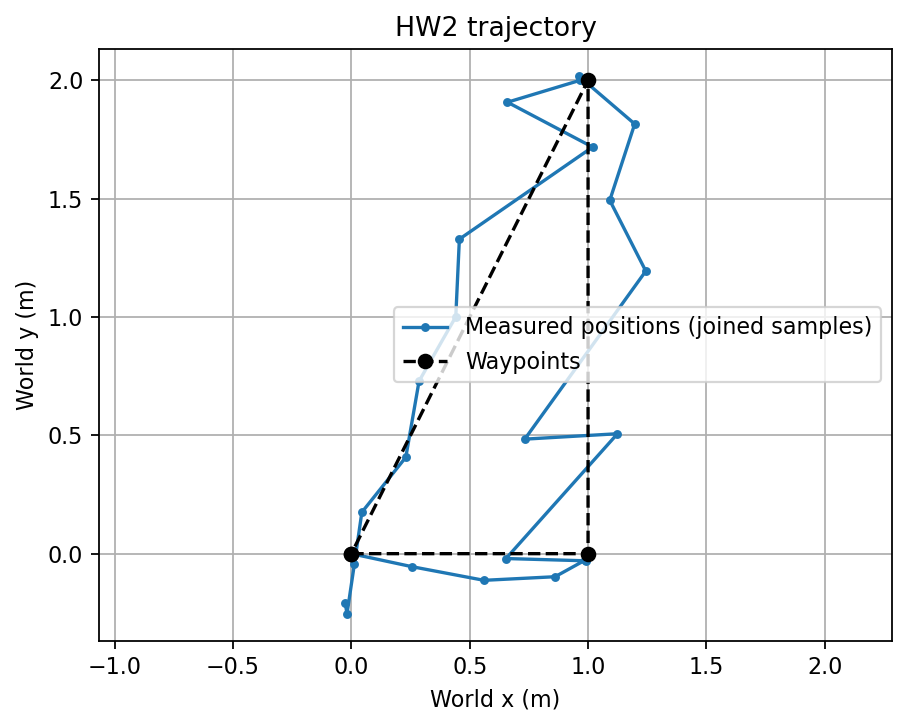
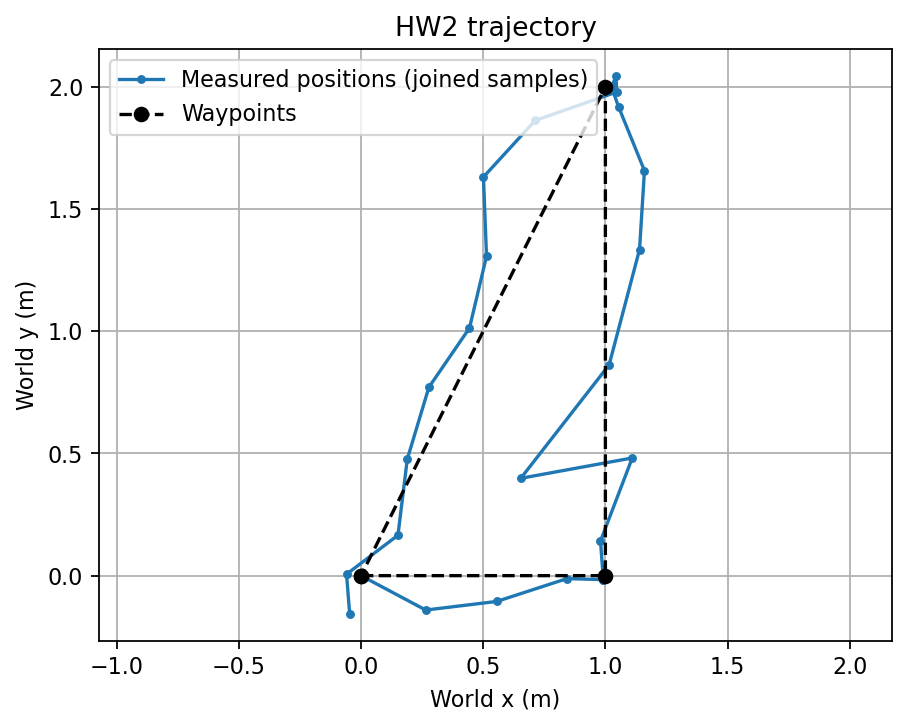
adjusted precision

diff --git a/robot_control/robot_control/hw2_waypoint_controller.py b/robot_control/robot_control/hw2_waypoint_controller.py
@@ -89,11 +89,10 @@ class Robot(Node):
         self.move(-command, command, seconds)
 
 
-# ---------- HW2 helpers: your Robot class above is unchanged ----------
-POSITION_TOLERANCE = 0.08             # metres; accept within 8 cm
+# ---------- HW2 helpers ----------
+POSITION_TOLERANCE = 0.06             # metres; accept within 8 cm
 HEADING_TOLERANCE = math.radians(6)  # final heading within 6 degrees
 
-# Copied from the previous controller: VERIFY against your physical setup.
 # ID: (world x, world y, centre height, facing degrees, printed spin degrees).
 # Facing: 0 = +x, 90 = +y, 180 = -x, -90 = -y.
 # Spin: positive counterclockwise when looking at the printed face.
